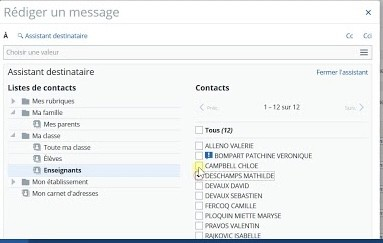
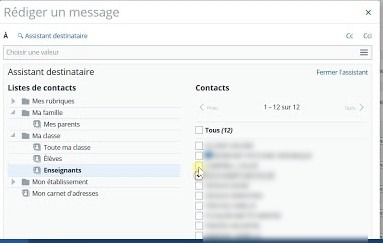
Mon entree en 6e et culture sportive : titres, encadres, capture floutee
- rubrique "envoyer un mail" : la maquette dessinee est supprimee,
  les deux captures d'ecran de l'ENT la remplacent
- "ce qui est attendu d'un eleve de 6e" et "quelques conseils pour
  bien debuter" remontent tout en haut de la page, avant le sommaire
- culture sportive : "Culture Sportive" sur une ligne, puis
  "Comprendre" et "son corps" sur deux lignes dans le bandeau
- mon entree en 6e : "Deviens un" sur une ligne, puis "collegien" et
  "autonome !" (nettement plus grand) dans le bandeau
- le logo du hero a desormais exactement la meme taille sur les
  9 pages : son calcul repose sur les tailles de titre de reference
  et non sur celles, parfois reduites, de la page
- capture de l'assistant destinataire : noms de l'equipe floutes

Claude-Session: https://claude.ai/code/session_01Abn6zVhHPXvTaUa6iAmTfD

Changed region(s): [[0.517, 0.5761, 0.9765, 1.0]]

diff --git a/prof-principal-6e.html b/prof-principal-6e.html
@@ -51,7 +51,7 @@
             <span class="dossard dossard--sm" aria-hidden="true">6e</span>
             <p class="eyebrow">Mon entrée en 6e</p>
           </div>
-          <div class="site-hero__lockup site-hero__lockup--l2-une-ligne">
+          <div class="site-hero__lockup site-hero__lockup--l2-accent-fort">
             <a class="site-hero__logo-link" href="index.html" aria-label="Retour à l'accueil">
               <img class="site-hero__logo" src="assets/logo-as-simone-veil.jpg" alt="">
             </a>
@@ -73,6 +73,27 @@
 
     <section class="section">
       <div class="container">
+
+        <div class="bilan-eleve">
+          <div class="callout callout--neutral">
+            <h3 class="mt-0">Ce qui est attendu d'un(e) élève de 6e</h3>
+            <ul class="mb-0">
+              <li>Être <strong>présent(e)</strong> et <strong>ponctuel(le)</strong>.</li>
+              <li>Avoir un <strong>comportement respectueux</strong> et une attitude positive, en classe et en dehors.</li>
+              <li>Avoir <span class="surligne">tout son matériel</span>.</li>
+              <li>Avoir <strong>fait ses devoirs</strong>, <strong>appris ses leçons</strong>, et <strong>rattrapé ses absences</strong> grâce à son binôme de classe.</li>
+              <li>Avoir des <strong>résultats</strong> qui correspondent à son niveau.</li>
+            </ul>
+          </div>
+
+        <div class="callout callout--success">
+          <h3 class="mt-0">Quelques conseils pour bien débuter au collège</h3>
+          <ul class="mb-0">
+            <li><strong>Pose des questions :</strong> il n'y a pas de questions bêtes — ta question peut aider d'autres camarades de la classe.</li>
+            <li><strong>Ne reste pas seul(e) :</strong> en cas de problème, parles-en toujours à un adulte (professeure principale, infirmière, CPE, assistant d'éducation...).</li>
+            <li><strong>Donne-toi du temps :</strong> le collège, ça s'apprend petit à petit, pas besoin de tout savoir dès le premier jour.</li>
+          </ul>
+        </div>
 
         <!-- Sommaire : cinq portes d'entree, une par grande partie de la page.
              Les quatre premieres s'adressent aux eleves, la derniere aux familles. -->
@@ -201,7 +222,7 @@
               <span class="info-card__toggle" aria-hidden="true">+</span>
             </summary>
             <div class="info-card__body">
-              <p>Savoir écrire un mail correct à un adulte est une compétence essentielle au collège. Pensez à toujours vous adresser au bon interlocuteur, et à des heures raisonnables.</p>
+              <p>Savoir écrire un mail correct à un adulte est une compétence essentielle au collège. Pensez à toujours vous adresser au <strong>bon interlocuteur</strong>, et à des <strong>heures raisonnables</strong>.</p>
               <ol>
                 <li><strong>Le destinataire :</strong> cliquez sur <span class="surligne">« Assistant destinataire »</span> pour choisir la bonne personne dans les listes du collège (voir la capture suivante).</li>
                 <li><strong>L'objet :</strong> résumez le sujet en quelques mots (ex. « Absence du 12/09 — Classe 6eA »). Un mail sans objet passe souvent inaperçu.</li>
@@ -233,7 +254,7 @@
               <figure class="capture">
                 <div class="capture__zone">
                   <img src="assets/college/mail-assistant-destinataire.jpg"
-                       alt="Assistant destinataire de l'ENT : à gauche les listes de contacts (ma famille, ma classe, mon établissement), à droite la liste des contacts à cocher"
+                       alt="Assistant destinataire de l'ENT : à gauche les listes de contacts (ma famille, ma classe, mon établissement), à droite la liste des contacts à cocher, dont les noms ont été floutés"
                        width="383" height="243" loading="lazy">
                   <span class="capture__num capture__num--sm" style="--x:33%; --y:15%">1</span>
                   <span class="capture__num capture__num--sm" style="--x:26%; --y:71%">2</span>
@@ -244,51 +265,6 @@
                   <strong>2.</strong> Ouvrir « Ma classe », puis « Enseignants ». —
                   <strong>3.</strong> Cocher la personne à qui écrire, puis fermer l'assistant.
                 </figcaption>
-              </figure>
-              <figure class="rule-diagram">
-                <svg viewBox="0 0 620 400" xmlns="http://www.w3.org/2000/svg" role="img" aria-labelledby="mail-diagram-title">
-                  <title id="mail-diagram-title">Maquette d'un mail bien rédigé : destinataire, objet, formule de politesse, corps du message, signature et pièce jointe</title>
-
-                  <rect x="10" y="10" width="600" height="380" rx="10" fill="#ffffff" stroke="#0a1f44" stroke-width="2.5"/>
-                  <rect x="10" y="10" width="600" height="34" rx="10" fill="#0a1f44"/>
-                  <rect x="10" y="34" width="600" height="10" fill="#0a1f44"/>
-                  <circle cx="30" cy="27" r="5" fill="#e8543f"/><circle cx="46" cy="27" r="5" fill="#ffd23f"/><circle cx="62" cy="27" r="5" fill="#8fd19e"/>
-                  <text x="310" y="32" text-anchor="middle" font-size="13" font-weight="700" fill="#ffffff" font-family="sans-serif">Nouveau message</text>
-
-                  <g font-family="sans-serif">
-                    <text x="30" y="72" font-size="12" font-weight="700" fill="#4a5164">À :</text>
-                    <rect x="70" y="58" width="510" height="22" rx="4" fill="#f7f5ef" stroke="#dcd8cc"/>
-                    <text x="80" y="73" font-size="12" fill="#1a1e27">Mme MARTIN — professeure de mathématiques</text>
-                    <text x="596" y="73" text-anchor="end" font-size="10" fill="#2e7d4f">① le bon interlocuteur</text>
-
-                    <text x="30" y="110" font-size="12" font-weight="700" fill="#4a5164">Objet :</text>
-                    <rect x="70" y="96" width="510" height="22" rx="4" fill="#fff8e1" stroke="#e6ad00"/>
-                    <text x="80" y="111" font-size="12" font-weight="700" fill="#1a1e27">Absence du 12/09 — Léa Dupont, 6e3</text>
-                    <text x="596" y="133" text-anchor="end" font-size="10" fill="#e6ad00">② court et précis</text>
-
-                    <rect x="30" y="146" width="550" height="180" rx="6" fill="#f7f5ef" stroke="#dcd8cc"/>
-                    <text x="46" y="170" font-size="12.5" font-weight="700" fill="#1a1e27">Bonjour Madame MARTIN,</text>
-                    <text x="596" y="170" text-anchor="end" font-size="10" fill="#14336b">③ formule de politesse</text>
-
-                    <text x="46" y="202" font-size="12" fill="#1a1e27">J'étais absente au cours du vendredi 12 septembre.</text>
-                    <text x="46" y="222" font-size="12" fill="#1a1e27">Pourriez-vous m'indiquer le travail à rattraper ?</text>
-                    <text x="46" y="242" font-size="12" fill="#1a1e27">Je vous remercie par avance.</text>
-                    <text x="596" y="222" text-anchor="end" font-size="10" fill="#14336b">④ des phrases complètes</text>
-
-                    <text x="46" y="278" font-size="12.5" font-weight="700" fill="#1a1e27">Cordialement,</text>
-                    <text x="46" y="298" font-size="12.5" font-weight="700" fill="#1a1e27">Léa Dupont, classe de 6e3</text>
-                    <text x="596" y="290" text-anchor="end" font-size="10" fill="#14336b">⑤ signature : prénom, nom, classe</text>
-
-                    <rect x="30" y="340" width="230" height="34" rx="6" fill="#ffffff" stroke="#e8871e" stroke-width="2"/>
-                    <path d="M50 350 a7 7 0 0 1 14 0 v14 a5 5 0 0 1 -10 0 v-11" fill="none" stroke="#e8871e" stroke-width="2.5" stroke-linecap="round"/>
-                    <text x="76" y="362" font-size="12" font-weight="700" fill="#1a1e27">justificatif.pdf</text>
-                    <text x="268" y="362" font-size="10" fill="#e8871e">⑥ la pièce jointe est bien là</text>
-
-                    <rect x="500" y="340" width="80" height="34" rx="17" fill="#ffd23f" stroke="#0a1f44" stroke-width="2"/>
-                    <text x="540" y="362" text-anchor="middle" font-size="13" font-weight="800" fill="#0a1f44">Envoyer</text>
-                  </g>
-                </svg>
-                <figcaption>Un mail bien rédigé, point par point.</figcaption>
               </figure>
 
               <div class="callout callout--info">
@@ -1200,26 +1176,6 @@
           </details>
         </div>
 
-        <div class="bilan-eleve">
-          <div class="callout callout--neutral">
-            <h3 class="mt-0">Ce qui est attendu d'un(e) élève de 6e</h3>
-            <ul class="mb-0">
-              <li>Être <strong>présent(e)</strong> et <strong>ponctuel(le)</strong>.</li>
-              <li>Avoir un <strong>comportement respectueux</strong> et une attitude positive, en classe et en dehors.</li>
-              <li>Avoir <span class="surligne">tout son matériel</span>.</li>
-              <li>Avoir <strong>fait ses devoirs</strong>, <strong>appris ses leçons</strong>, et <strong>rattrapé ses absences</strong> grâce à son binôme de classe.</li>
-              <li>Avoir des <strong>résultats</strong> qui correspondent à son niveau.</li>
-            </ul>
-          </div>
-
-        <div class="callout callout--success">
-          <h3 class="mt-0">Quelques conseils pour bien débuter au collège</h3>
-          <ul class="mb-0">
-            <li><strong>Pose des questions :</strong> il n'y a pas de questions bêtes — ta question peut aider d'autres camarades de la classe.</li>
-            <li><strong>Ne reste pas seul(e) :</strong> en cas de problème, parles-en toujours à un adulte (professeure principale, infirmière, CPE, assistant d'éducation...).</li>
-            <li><strong>Donne-toi du temps :</strong> le collège, ça s'apprend petit à petit, pas besoin de tout savoir dès le premier jour.</li>
-          </ul>
-        </div>
         </div>
 
         <!-- ============================================================

diff --git a/css/style.css b/css/style.css
@@ -3585,16 +3585,11 @@ section[id$="-acquisitions"] > h4 {
    (voir la variante "--titre-long" plus bas) :
      --hero-l1        taille de la 1re ligne
      --hero-l2        taille de la 2e ligne (le bandeau bleu)
-     --hero-l2-coef   place occupee par la 2e ligne dans le calcul
-                      de la hauteur du logo :
-                        1.38 = bandeau sur 1 ligne
-                        2.53 = bandeau sur 2 lignes
    ------------------------------------------------------------ */
 
 .site-hero__lockup {
   --hero-l1: clamp(1.5rem, 8.5vw, 2.6rem);
   --hero-l2: clamp(1.9rem, 5vw, 3rem);
-  --hero-l2-coef: 1.38;
 }
 
 /* Telephone : le logo passe au-dessus, le titre prend toute la largeur. */
@@ -3647,8 +3642,11 @@ section[id$="-acquisitions"] > h4 {
      La largeur suit automatiquement grace au format d'origine
      (600 x 900) : l'image n'est jamais deformee. */
   .site-hero__lockup .site-hero__logo {
-    height: calc(1.3 * (1.15 * var(--hero-l1)
-                        + var(--hero-l2-coef) * var(--hero-l2)));
+    /* Le calcul reprend les tailles de titre DE REFERENCE, pas celles de
+       la page : le logo garde ainsi exactement la meme taille partout,
+       meme sur les pages dont le titre a du etre reduit. */
+    height: calc(1.3 * (1.15 * clamp(1.5rem, 3.6vw, 3rem)
+                        + 1.38 * clamp(1.9rem, 5vw, 3rem)));
     width: auto;
     aspect-ratio: 600 / 900;
   }
@@ -3677,19 +3675,32 @@ section[id$="-acquisitions"] > h4 {
   }
 }
 
-/* Bandeau bleu qui doit tenir sur UNE seule ligne malgre sa longueur
-   ("collégien autonome !", "Comprendre son corps") : la taille est
-   calee sur la place reellement disponible a cote du logo, mesuree
-   de 640 a 1920px. */
-@media (max-width: 639.98px) {
-  .site-hero__lockup--l2-une-ligne {
-    --hero-l2: clamp(1rem, 5.7vw, 2.4rem);
+/* Bandeau bleu volontairement coupe en deux lignes ("Comprendre /
+   son corps", "collégien / autonome !") : la coupure est ecrite dans
+   le HTML (<br>), la taille reste celle des autres pages. */
+.hero-title__gros {
+  /* Pas de "display: block" ici : cela ferait occuper toute la largeur
+     au bandeau bleu, qui doit rester ajuste au texte. Le retour a la
+     ligne est deja assure par le <br> qui precede. */
+  font-size: 1.42em;
+}
+
+/* Page "Mon entree en 6e" : la 2e ligne du bandeau ("autonome !") etant
+   nettement plus grande, la taille de base est un peu reduite pour que
+   les deux lignes tiennent dans la colonne. */
+.site-hero__lockup--l2-accent-fort {
+  --hero-l2: clamp(1.3rem, 6.5vw, 1.9rem);
+}
+
+@media (min-width: 640px) {
+  .site-hero__lockup--l2-accent-fort {
+    --hero-l2: clamp(1.2rem, 3.1vw, 2.35rem);
   }
 }
 
 @media (min-width: 640px) {
-  .site-hero__lockup--l2-une-ligne {
-    --hero-l2: clamp(0.9rem, 2.35vw, 1.85rem);
+  .site-hero__lockup--l2-deux-lignes {
+    --hero-l2: clamp(1.3rem, 3.5vw, 2.6rem);
   }
 }
 

diff --git a/culture-sportive.html b/culture-sportive.html
@@ -49,13 +49,13 @@
             <span class="dossard dossard--sm" aria-hidden="true">CS</span>
             <p class="eyebrow">Connaissances générales</p>
           </div>
-          <div class="site-hero__lockup site-hero__lockup--l1-longue site-hero__lockup--l2-une-ligne">
+          <div class="site-hero__lockup site-hero__lockup--l1-longue site-hero__lockup--l2-deux-lignes">
             <a class="site-hero__logo-link" href="index.html" aria-label="Retour à l'accueil">
               <img class="site-hero__logo" src="assets/logo-as-simone-veil.jpg" alt="">
             </a>
             <h1>
               <span class="hero-title__line1">Culture Sportive</span>
-              <span class="hero-title__accent">Comprendre son corps</span>
+              <span class="hero-title__accent">Comprendre<br>son corps</span>
             </h1>
           </div>
           <p class="lede">Des connaissances générales, valables quel que soit ton niveau, pour mieux comprendre ton corps et ta pratique sportive.</p>
